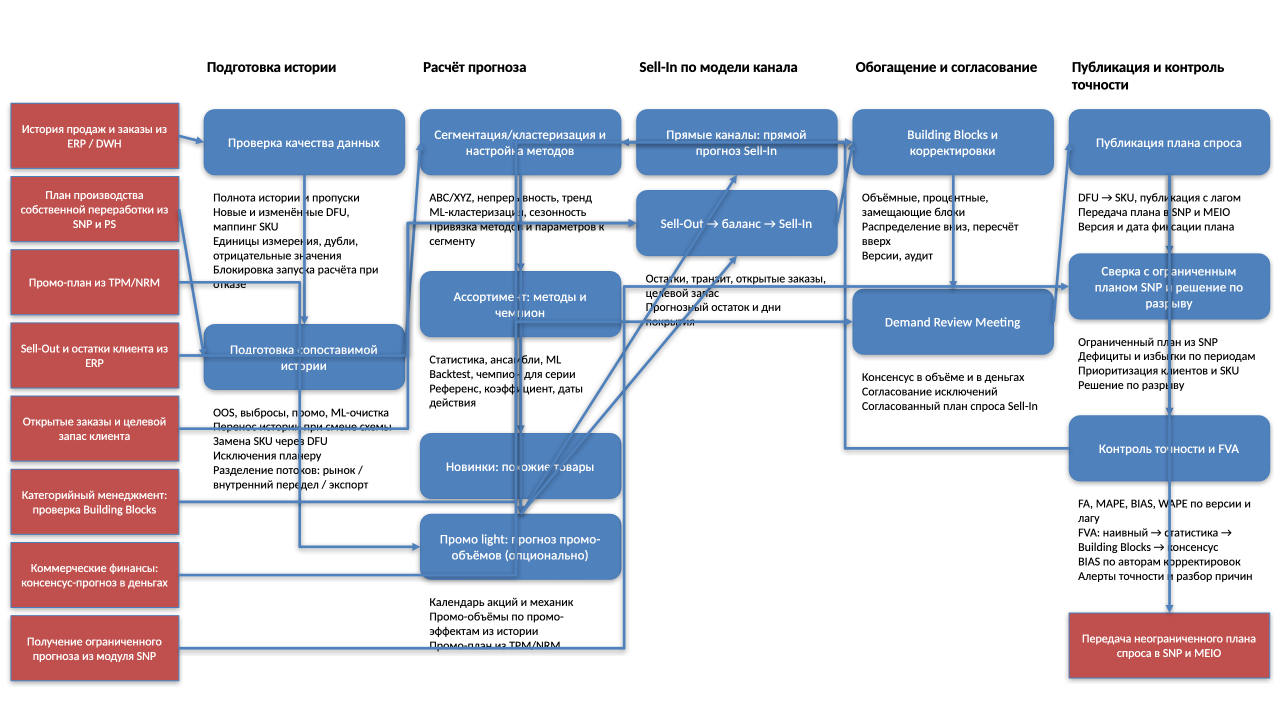
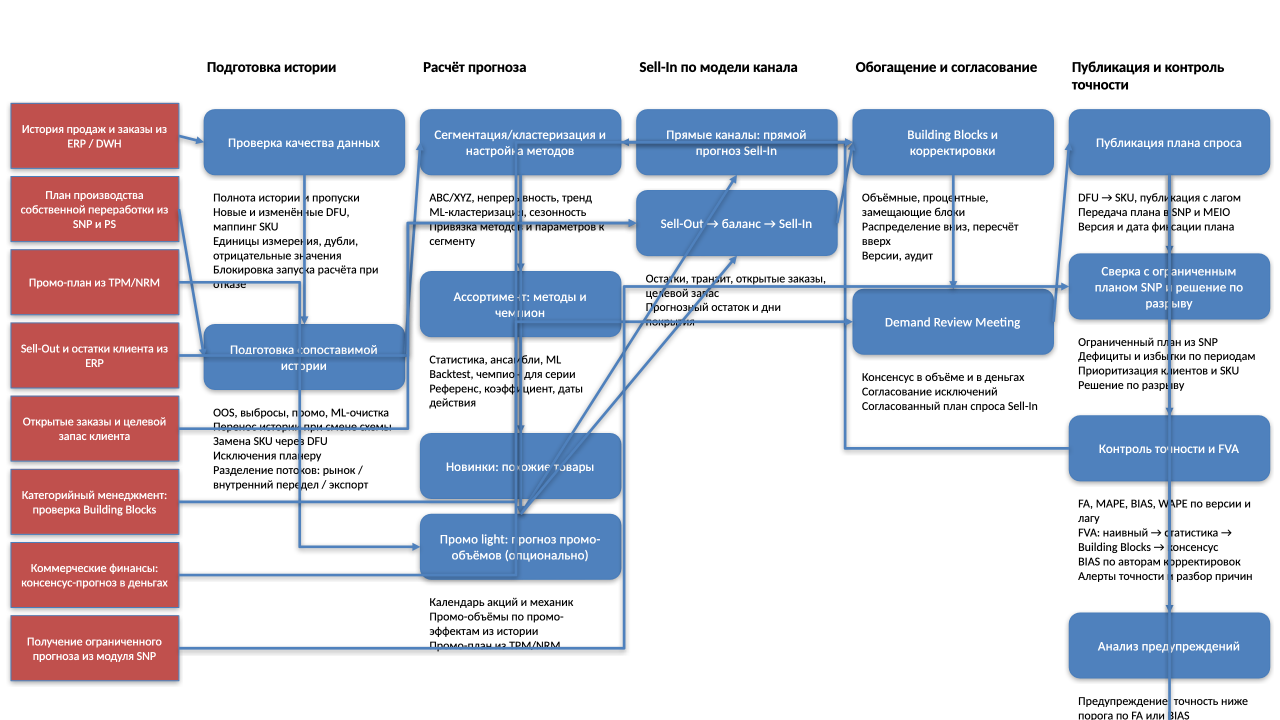
feat(process-map-dsa): сценарии MEIO расписаны, работа с предупреждениями в обеих картах
РЕШЕНИЯ ВЛАДЕЛЬЦА от 07.09.2026, третья волна правок по ходу просмотра.

СЦЕНАРИИ MEIO. На слайде было «сценарное моделирование, 3 сценария с изменением
политик пополнения» и сноска «варианты будут уточнены по ходу проекта». Теперь
типы перечислены: пересчёт по фильтрам (склад, канал, категория, сегмент),
изменение целевого уровня сервиса, изменение политики пополнения по частоте,
размеру партии и кратности, изменение лидтаймов и их отклонений, ограничение по
мощностям хранения, ограничение по бюджету запаса.

Перечень типов — МЕНЮ, а не план прогона: за цикл считаются три сценария,
выбранные под задачу. Поэтому keyOutputs «Три сценария» остался как был, а
сноска слайда сохранена в описании: список ещё уточняется.

РАБОТА С ПРЕДУПРЕЖДЕНИЯМИ появилась в обеих картах.

DP, этап 5, группа «Сверка и контроль» — «Анализ предупреждений»: точность ниже
порога по FA или BIAS, разрыв с ограниченным планом SNP, прогноз без истории по
новому DFU, ручная корректировка без обоснования. Приоритет предупреждения — по
бизнес-эффекту, а не по величине отклонения: строка без ожидаемого эффекта и
без владельца не работа, а шум.

MEIO, этап 3, группа «Анализ» — «Анализ предупреждений расчёта»: покрытие выше
остаточного срока годности, рекомендация ниже минимальной партии, целевой запас
не помещается в мощности хранения, отклонение от целевого уровня сервиса.
Предупреждение здесь не ошибка расчёта, а позиция, где ограничение и
[…]

Changed region(s): [[0.8125, 0.825, 1.0, 1.0]]

diff --git a/tests/dp/content.test.ts b/tests/dp/content.test.ts
@@ -44,6 +44,7 @@ const STEPS_BY_STAGE: string[][] = [
     'Публикация плана спроса',
     'Сверка с ограниченным планом SNP и решение по разрыву',
     'Контроль точности и FVA',
+    'Анализ предупреждений',
   ],
 ];
 
@@ -82,12 +83,12 @@ describe('карта DP: пять этапов', () => {
 });
 
 describe('карта DP: содержание', () => {
-  it('тринадцать шагов, по этапам, дословно', () => {
+  it('четырнадцать шагов, по этапам, дословно', () => {
     // Было десять. Этап 5 разделён на три шага решением владельца от 07.09.2026:
     // публикация, сверка с ограниченным планом SNP и контроль точности — разные
     // вопросы к разным владельцам, и держать их одним шагом значило смешивать
     // выполнимость с точностью.
-    expect(steps).toHaveLength(13);
+    expect(steps).toHaveLength(14);
     for (const [index, stage] of map.stages.entries()) {
       expect(
         labels(stage.nodes.filter((node) => node.type !== 'data')),
@@ -96,14 +97,14 @@ describe('карта DP: содержание', () => {
     }
   });
 
-  it('восемь входов и одиннадцать выходов, каждый при своём этапе', () => {
-    expect(data).toHaveLength(19);
+  it('восемь входов и двенадцать выходов, каждый при своём этапе', () => {
+    expect(data).toHaveLength(20);
     expect(labels(data.filter((node) => node.direction === 'in'))).toEqual([...INPUTS].sort());
     // Выходов больше, чем плашек на слайде: к единственной плашке-передаче
     // добавились карточки-результаты, порождённые из keyOutputs этапов
     // (решение владельца от 07.09.2026, приём карты SNP).
     expect(labels(data.filter((node) => node.direction === 'out'))).toContain(OUTPUT);
-    expect(data.filter((node) => node.direction === 'out')).toHaveLength(11);
+    expect(data.filter((node) => node.direction === 'out')).toHaveLength(12);
 
     const stageOf = (label: string): number | undefined =>
       map.stages.find((stage) => stage.nodes.some((node) => node.label === label))?.number;
@@ -121,11 +122,11 @@ describe('карта DP: содержание', () => {
     expect(stageOf(OUTPUT)).toBe(5);
   });
 
-  it('рёбра внутри этапов: 3 + 5 + 2 + 3 + 4', () => {
+  it('рёбра внутри этапов: 3 + 5 + 2 + 3 + 5', () => {
     // «Прямые каналы» и «Sell-Out → баланс → Sell-In» по-прежнему параллельны и
     // между собой не связаны; два ребра этапа 3 — это связи плашек-входов со
     // своим шагом, а не поток между шагами.
-    expect(map.stages.map((stage) => stage.edges.length)).toEqual([3, 5, 2, 3, 4]);
+    expect(map.stages.map((stage) => stage.edges.length)).toEqual([3, 5, 2, 3, 5]);
   });
 
   it('поток 1 → 2 → 3 → 4 → 5 и ОБРАТНАЯ связь 5 → 2 по точности', () => {
@@ -199,6 +200,7 @@ describe('карта DP: содержание', () => {
         'Опубликованный план спроса в SNP и MEIO',
         'Решение по разрыву с планом SNP',
         'KPI точности и FVA',
+        'Перечень предупреждений с приоритетом',
       ],
     ]);
   });
@@ -274,8 +276,8 @@ describe('карта DP: содержание', () => {
       expect(step.outputs?.length, `шаг «${step.id}»`).toBeGreaterThan(0);
       expect(step.owner, `шаг «${step.id}» без ответственного`).toBeTruthy();
     }
-    expect(steps.filter((step) => step.outputs !== undefined)).toHaveLength(13);
-    expect(steps.filter((step) => step.owner !== undefined)).toHaveLength(13);
+    expect(steps.filter((step) => step.outputs !== undefined)).toHaveLength(14);
+    expect(steps.filter((step) => step.owner !== undefined)).toHaveLength(14);
 
     // Дословно, из согласованного authoring source.
     expect(nodes.find((node) => node.id === 'kontrol-tochnosti-i-fva')?.outputs).toEqual([
@@ -294,7 +296,7 @@ describe('карта DP: содержание', () => {
     // как переносимое поле). Значит ответственные живут в этом файле и
     // восстанавливаются carry_over_manual_fields по id при каждом npm run data.
     // Тест сторожит, что их не стёрли очередной перегенерацией.
-    expect(nodes.filter((node) => node.owner !== undefined).length).toBe(13);
+    expect(nodes.filter((node) => node.owner !== undefined).length).toBe(14);
   });
 
   it('warningsCount не проставлен', () => {

diff --git a/tests/meio/content.test.ts b/tests/meio/content.test.ts
@@ -23,7 +23,11 @@ const STAGE_TITLES = [
 const STEPS_BY_STAGE: string[][] = [
   ['Подготовка данных', 'Проверка мастер-данных', 'Проверка цепочки на связанность'],
   ['Настройка параметров для расчёта уровней запасов', 'Сегментация'],
-  ['Расчёт рекомендаций по уровням запасов', 'Анализ полученных значений'],
+  [
+    'Расчёт рекомендаций по уровням запасов',
+    'Анализ полученных значений',
+    'Анализ предупреждений расчёта',
+  ],
   ['Оценка эффектов'],
 ];
 
@@ -50,8 +54,8 @@ describe('карта MEIO: четыре этапа', () => {
 });
 
 describe('карта MEIO: содержание', () => {
-  it('восемь шагов, по этапам, дословно', () => {
-    expect(steps).toHaveLength(8);
+  it('девять шагов, по этапам, дословно', () => {
+    expect(steps).toHaveLength(9);
     for (const [index, stage] of map.stages.entries()) {
       expect(
         labels(stage.nodes.filter((node) => node.type !== 'data')),
@@ -60,14 +64,14 @@ describe('карта MEIO: содержание', () => {
     }
   });
 
-  it('пять входов и десять выходов, каждый при своём этапе', () => {
-    expect(data).toHaveLength(15);
+  it('пять входов и одиннадцать выходов, каждый при своём этапе', () => {
+    expect(data).toHaveLength(16);
     expect(labels(data.filter((node) => node.direction === 'in'))).toEqual([...INPUTS].sort());
     // Кроме двух плашек слайда — карточки-результаты из keyOutputs этапов.
     for (const label of OUTPUTS) {
       expect(labels(data.filter((node) => node.direction === 'out'))).toContain(label);
     }
-    expect(data.filter((node) => node.direction === 'out')).toHaveLength(10);
+    expect(data.filter((node) => node.direction === 'out')).toHaveLength(11);
 
     const stageOf = (label: string): number | undefined =>
       map.stages.find((stage) => stage.nodes.some((node) => node.label === label))?.number;
@@ -80,8 +84,8 @@ describe('карта MEIO: содержание', () => {
     expect(stageOf('Оценка эффектов и рекомендации')).toBe(4);
   });
 
-  it('рёбра внутри этапов: 3 + 5 + 2 + 1', () => {
-    expect(map.stages.map((stage) => stage.edges.length)).toEqual([3, 5, 2, 1]);
+  it('рёбра внутри этапов: 3 + 5 + 3 + 1', () => {
+    expect(map.stages.map((stage) => stage.edges.length)).toEqual([3, 5, 3, 1]);
   });
 
   it('обзорные рёбра — линейный поток 1 → 2 → 3 → 4 без обратного', () => {
@@ -156,6 +160,7 @@ describe('карта MEIO: содержание', () => {
       [
         'Оптимизационный расчёт распределения запасов по эшелонам в разрезе продукт-локация-период',
         'Три сценария',
+        'Перечень предупреждений расчёта',
       ],
       ['Комплексная оценка эффектов и параметров поставок на основе трёх сценариев'],
     ]);
@@ -230,8 +235,8 @@ describe('карта MEIO: содержание', () => {
       expect(step.outputs, `шаг «${step.id}» без выходов`).toBeTruthy();
       expect(step.owner, `шаг «${step.id}» без ответственного`).toBeTruthy();
     }
-    expect(steps.filter((step) => step.outputs !== undefined)).toHaveLength(8);
-    expect(steps.filter((step) => step.owner !== undefined)).toHaveLength(8);
+    expect(steps.filter((step) => step.outputs !== undefined)).toHaveLength(9);
+    expect(steps.filter((step) => step.owner !== undefined)).toHaveLength(9);
 
     expect(
       nodes.find((node) => node.id === 'raschet-rekomendaciy-po-urovnyam-zapasov')?.outputs,
@@ -248,7 +253,7 @@ describe('карта MEIO: содержание', () => {
   it('ОТВЕТСТВЕННЫЙ — ручное поле и переживает перегенерацию', () => {
     // Импортёру запрещено отдавать owner (самопроверка serialize_node), поэтому
     // поле живёт в этом файле и восстанавливается carry_over_manual_fields.
-    expect(nodes.filter((node) => node.owner !== undefined).length).toBe(8);
+    expect(nodes.filter((node) => node.owner !== undefined).length).toBe(9);
   });
 
   it('warningsCount не проставлен', () => {

diff --git a/scripts/import-pptx.py b/scripts/import-pptx.py
@@ -173,13 +173,13 @@ MAP_ID_DP = "dp"
 MAP_TITLE_DP = "Процесс планирования спроса"
 MAP_MODULE_LABEL_DP = "Модуль DP"
 MAP_UPDATED_AT_DP = "2026-09-07"
[2 lines of base64/hex data omitted]
 
 MAP_ID_MEIO = "meio"
 MAP_TITLE_MEIO = "Процесс мультиэшелонной оптимизации запасов"
 MAP_MODULE_LABEL_MEIO = "Модуль MEIO"
 MAP_UPDATED_AT_MEIO = "2026-09-07"
[2 lines of base64/hex data omitted]
 
 
 @dataclass(frozen=True)
@@ -1998,6 +1998,13 @@ STEP_DESCRIPTIONS: dict[str, dict[str, str]] = {
             "этап 4 остаётся без измерения качества.\n\n"
             "BPMN: DP-030 — Расчет метрик точности прогноза"
         ),
+        "analiz-preduprezhdeniy": (
+            "Разбор предупреждений цикла: точность ниже порога по FA или BIAS, разрыв с "
+            "ограниченным планом SNP, прогноз без истории по новому DFU, ручная "
+            "корректировка без обоснования.\n\n"
+            "Приоритет предупреждения — по бизнес-эффекту, а не по величине отклонения: "
+            "строка без ожидаемого эффекта в рублях и без владельца не работа, а шум."
+        ),
     },
     "meio": {
         "podgotovka-dannyh": (
@@ -2062,10 +2069,23 @@ STEP_DESCRIPTIONS: dict[str, dict[str, str]] = {
             "BPMN: IO-020 — Расчет рекомендаций по уровням запасов (IO)"
         ),
         "analiz-poluchennyh-znacheniy": (
-            "Сценарное моделирование: три сценария с изменением политик пополнения, "
-            "интерпретация полученных значений и корректировка.\n\n"
-            "Варианты сценариев будут уточнены по ходу проекта (сноска слайда).\n\n"
+            "Сценарное моделирование и интерпретация полученных значений. Типы сценариев, "
+            "из которых собирается прогон: пересчёт по фильтрам (склад, канал, категория, "
+            "сегмент), изменение целевого уровня сервиса, изменение политики пополнения "
+            "по частоте, размеру партии и кратности, изменение лидтаймов и их отклонений, "
+            "ограничение по мощностям хранения, ограничение по бюджету запаса.\n\n"
+            "Перечень типов — меню, а не план прогона: за цикл считаются три сценария, "
+            "выбранные из этого списка под задачу. Варианты будут уточнены по ходу "
+            "проекта (сноска слайда).\n\n"
             "BPMN: IO-030 — Расчет альтернативного сценария с новыми входными данными"
+        ),
+        "analiz-preduprezhdeniy-rascheta": (
+            "Разбор предупреждений, которые формирует расчёт: покрытие выше остаточного "
+            "срока годности, рекомендация ниже минимальной партии, целевой запас не "
+            "помещается в мощности хранения, отклонение от целевого уровня сервиса.\n\n"
+            "Предупреждение — не ошибка расчёта, а позиция, где ограничение и "
+            "рекомендация разошлись. Такие позиции уходят на ручную корректировку, а не "
+            "молча остаются в выгрузке."
         ),
         "ocenka-effektov": (
             "Комплексная оценка эффектов и параметров поставок на основе трёх сценариев, "
@@ -2135,6 +2155,10 @@ STEP_OUTPUTS: dict[str, dict[str, tuple[str, ...]]] = {
             "FVA по слоям",
             "Алерты точности",
         ),
+        "analiz-preduprezhdeniy": (
+            "Перечень предупреждений с приоритетом",
+            "Решения по отработке",
+        ),
     },
     "meio": {
         "podgotovka-dannyh": (
@@ -2163,6 +2187,11 @@ STEP_OUTPUTS: dict[str, dict[str, tuple[str, ...]]] = {
         "analiz-poluchennyh-znacheniy": (
             "Три сценария",
             "Скорректированные значения",
+            "Сравнение сценариев по эффектам",
+        ),
+        "analiz-preduprezhdeniy-rascheta": (
+            "Перечень предупреждений расчёта",
+            "Позиции к ручной корректировке",
         ),
         "ocenka-effektov": (
             "Комплексная оценка эффектов",
@@ -2189,7 +2218,7 @@ STAGE_GROUPS: dict[str, dict[str, tuple[tuple[str, tuple[str, ...]], ...]]] = {
         ),
         "stage-5-publikaciya-i-kontrol-tochnosti": (
             ("Публикация", ("publikaciya-plana-sprosa",)),
-            ("Сверка и контроль", ("sverka-s-ogranichennym-planom-snp-i-reshenie-po-razryvu", "kontrol-tochnosti-i-fva",)),
+            ("Сверка и контроль", ("sverka-s-ogranichennym-planom-snp-i-reshenie-po-razryvu", "kontrol-tochnosti-i-fva", "analiz-preduprezhdeniy",)),
         ),
     },
     "meio": {
@@ -2203,7 +2232,7 @@ STAGE_GROUPS: dict[str, dict[str, tuple[tuple[str, tuple[str, ...]], ...]]] = {
         ),
         "stage-3-raschet-i-analiz": (
             ("Расчёт", ("raschet-rekomendaciy-po-urovnyam-zapasov",)),
-            ("Анализ", ("analiz-poluchennyh-znacheniy",)),
+            ("Анализ", ("analiz-poluchennyh-znacheniy", "analiz-preduprezhdeniy-rascheta",)),
         ),
     },
 }
@@ -2229,6 +2258,7 @@ STAGE_KEY_OUTPUTS: dict[str, dict[str, tuple[str, ...]]] = {
             "Опубликованный план спроса в SNP и MEIO",
             "Решение по разрыву с планом SNP",
             "KPI точности и FVA",
+            "Перечень предупреждений с приоритетом",
         ),
     },
     "meio": {
@@ -2244,6 +2274,7 @@ STAGE_KEY_OUTPUTS: dict[str, dict[str, tuple[str, ...]]] = {
         "stage-3-raschet-i-analiz": (
             "Оптимизационный расчёт распределения запасов по эшелонам в разрезе продукт-локация-период",
             "Три сценария",
+            "Перечень предупреждений расчёта",
         ),
         "stage-4-ocenka-effektov": (
             "Комплексная оценка эффектов и параметров поставок на основе трёх сценариев",
